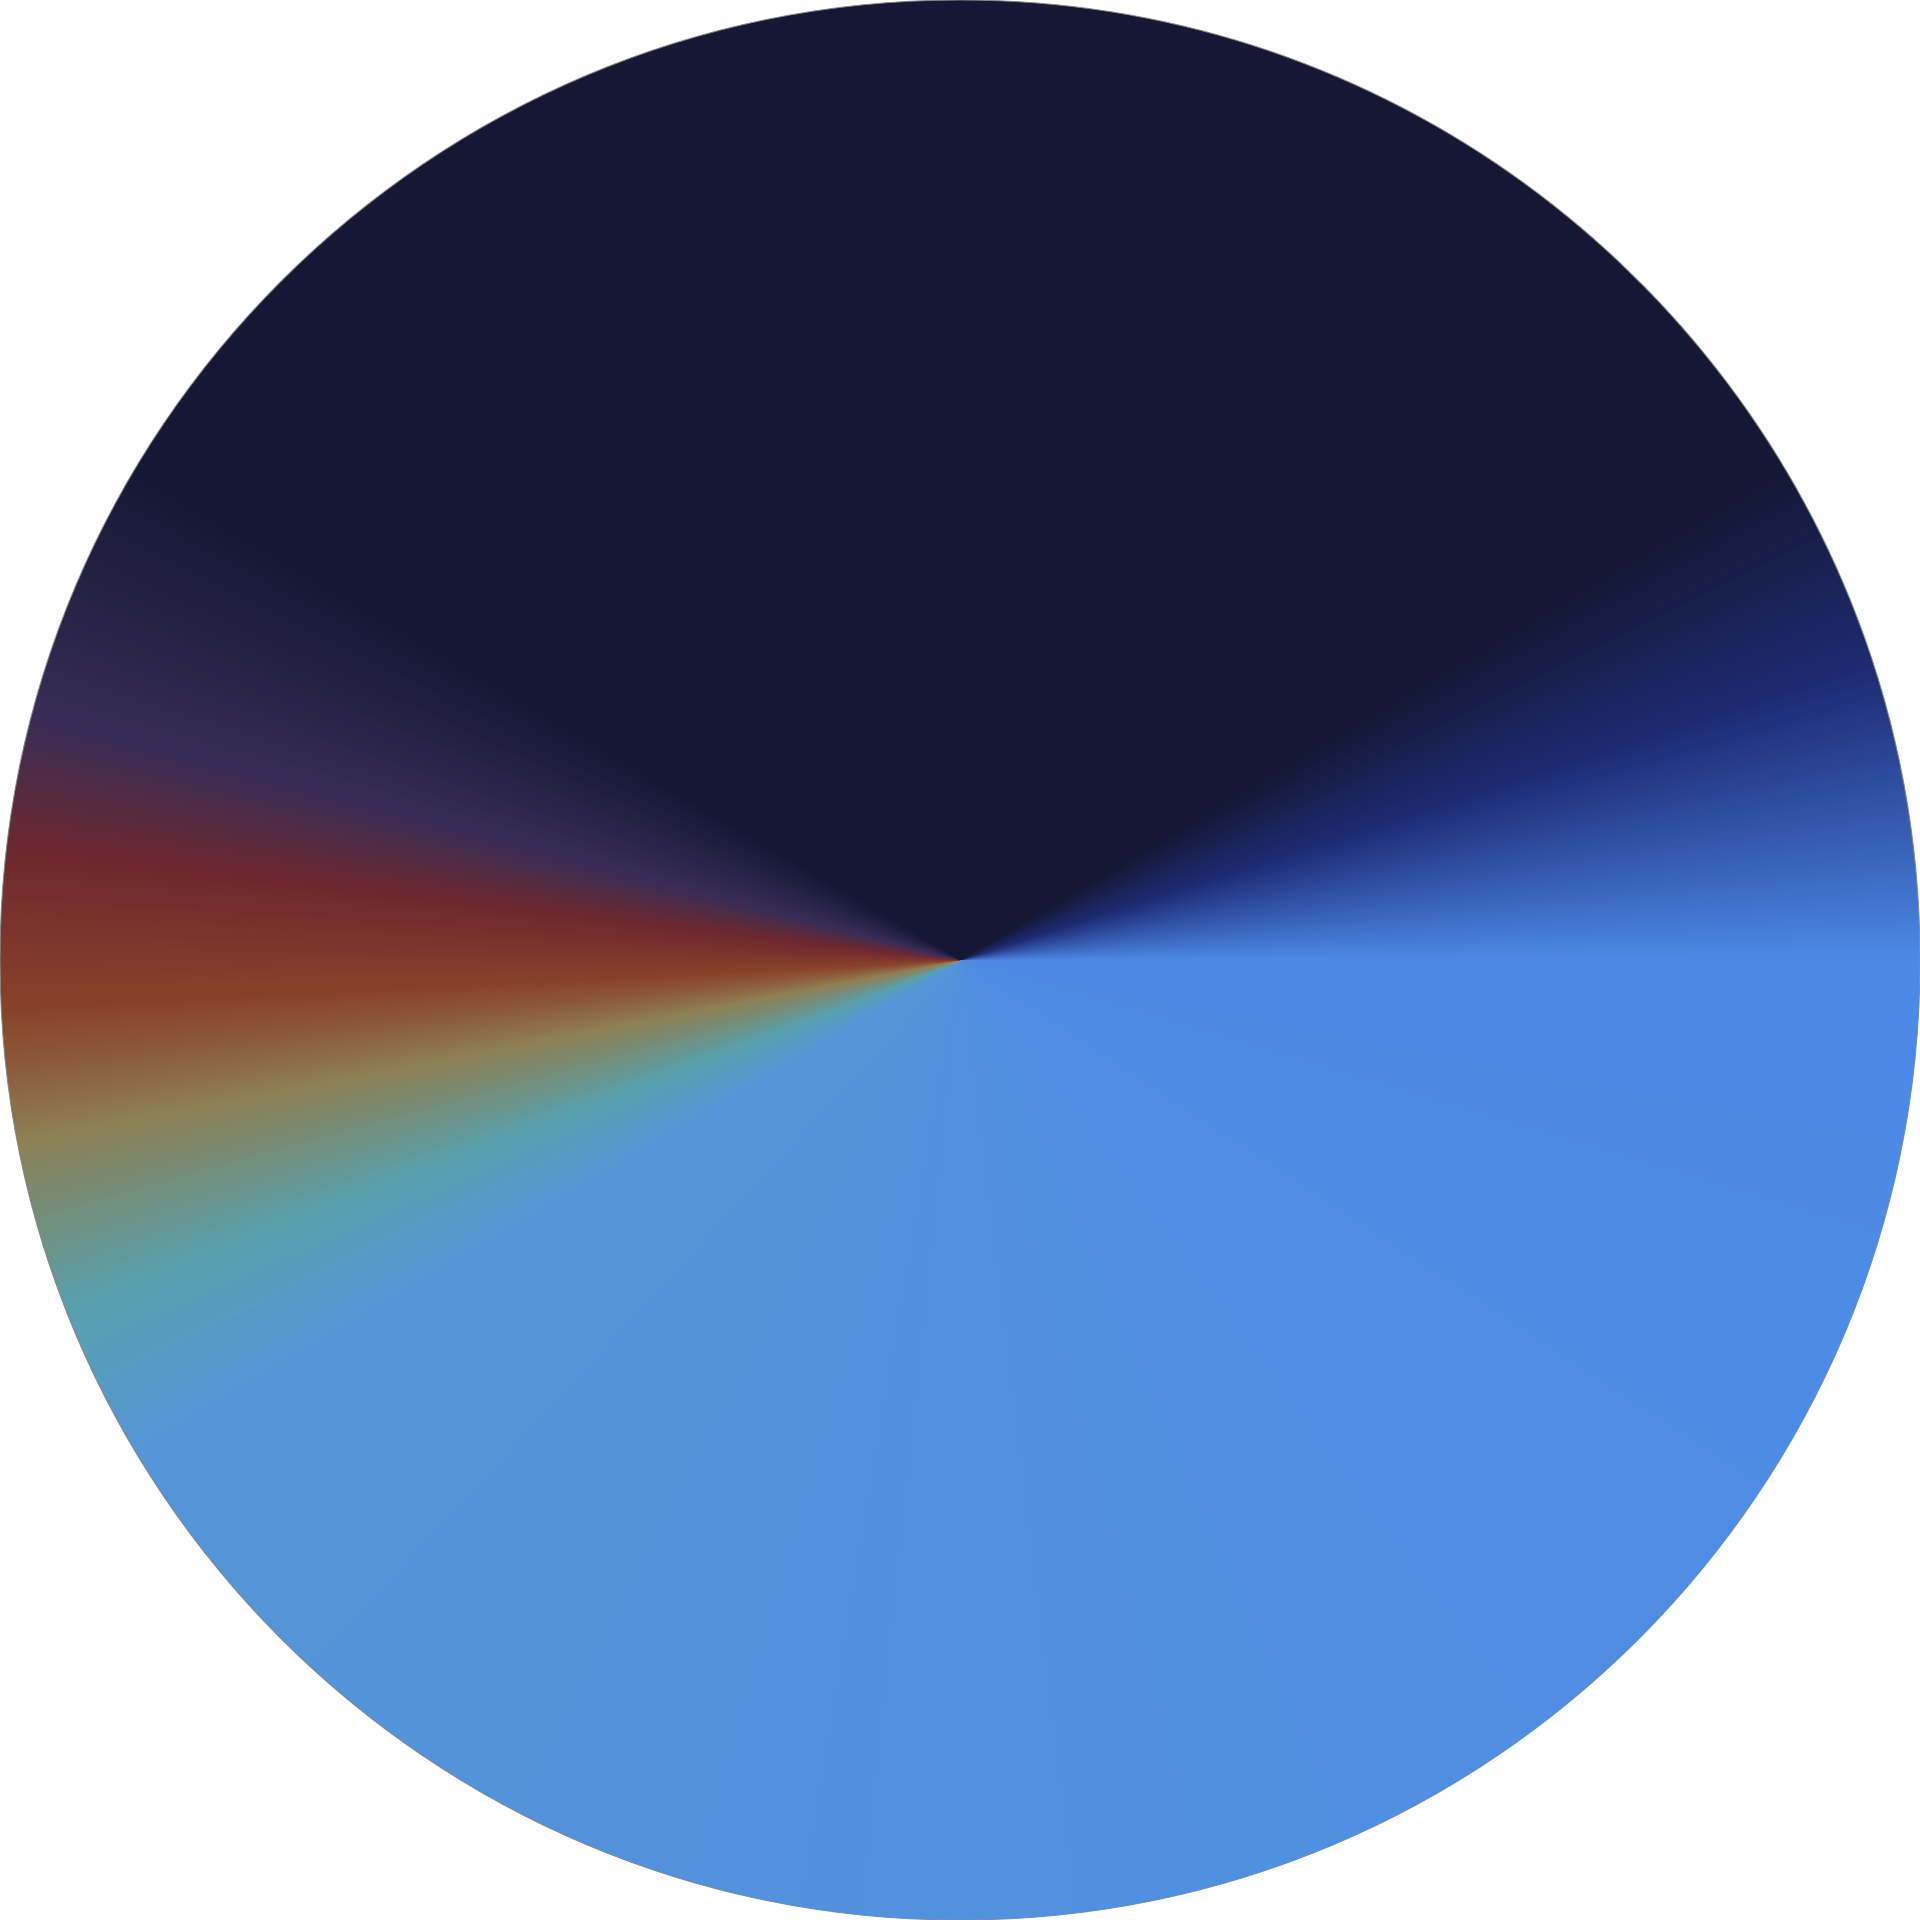
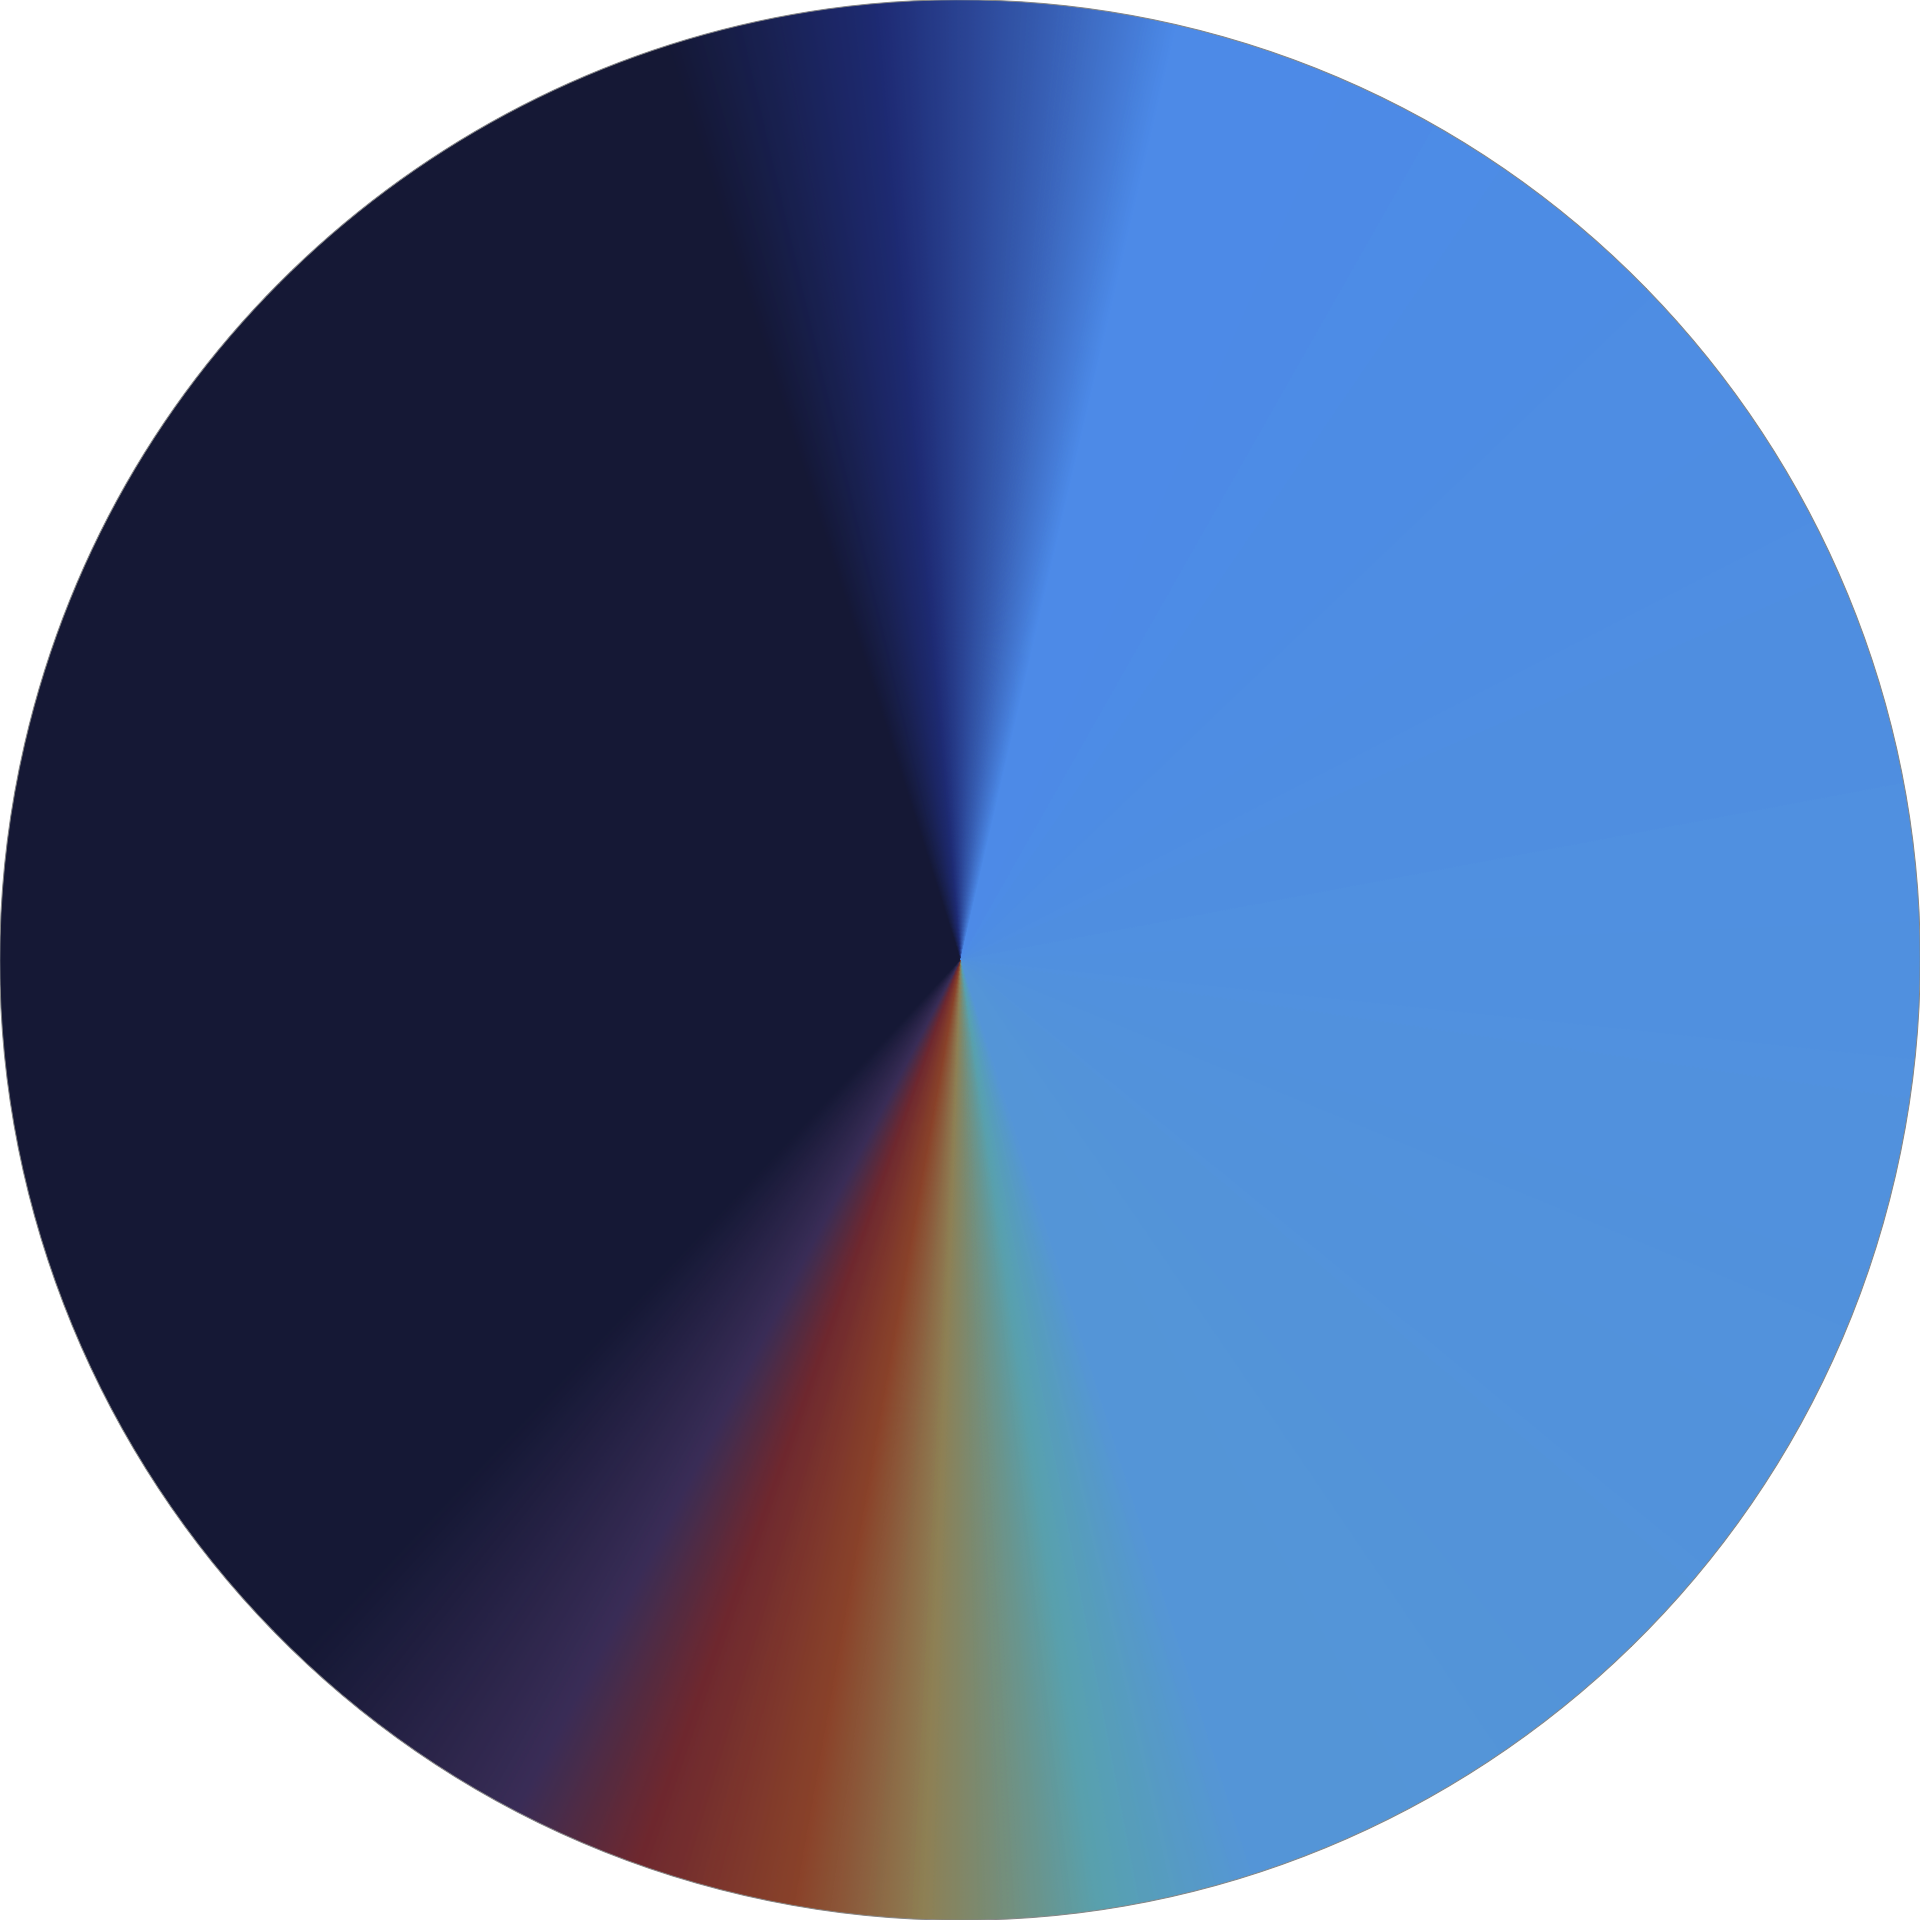
Added the sun, moon next.

diff --git a/src/main/pixi/game.html b/src/main/pixi/game.html
@@ -50,12 +50,21 @@ body {
 		ground.position.y = WORLD.FLOOR;
 		stage.addChild(ground);
 
+		// create the sky
 		var theskyyyy = new PIXI.Sprite(PIXI.Texture.fromImage("assets/THE_SKYYYYYYYYY.png"));
 		theskyyyy.anchor.x = 0.5;
 		theskyyyy.anchor.y = 0.5;
 		theskyyyy.position.x = WORLD.WIDTH / 2;
 		theskyyyy.position.y = WORLD.HEIGHT + 260;
 		skybox.addChild(theskyyyy);
+
+		var thesun = new PIXI.Sprite(PIXI.Texture.fromImage("assets/sun.png"));
+		thesun.anchor.x = 0.5;
+		thesun.anchor.y = 0.5;
+		thesun.position.x = WORLD.WIDTH / 2;
+		thesun.position.y = -80;
+		thesun.radius = Math.abs(theskyyyy.position.y) + Math.abs(thesun.position.y);
+		skybox.addChild(thesun);
 
 		// add the renderer view element to the DOM
 		document.body.appendChild(renderer.view);
@@ -75,6 +84,8 @@ body {
 		
 		function updateStep() {
 			theskyyyy.rotation -= 0.01;
+			thesun.position.x = thesun.radius * Math.cos(theskyyyy.rotation) + theskyyyy.position.x;
+			thesun.position.y = thesun.radius * Math.sin(theskyyyy.rotation) + theskyyyy.position.y;
 		    agent.update();
 		    grayFilter.gray = 1 - agent.state.mood;
 		    for(i in onScreenObjects)
